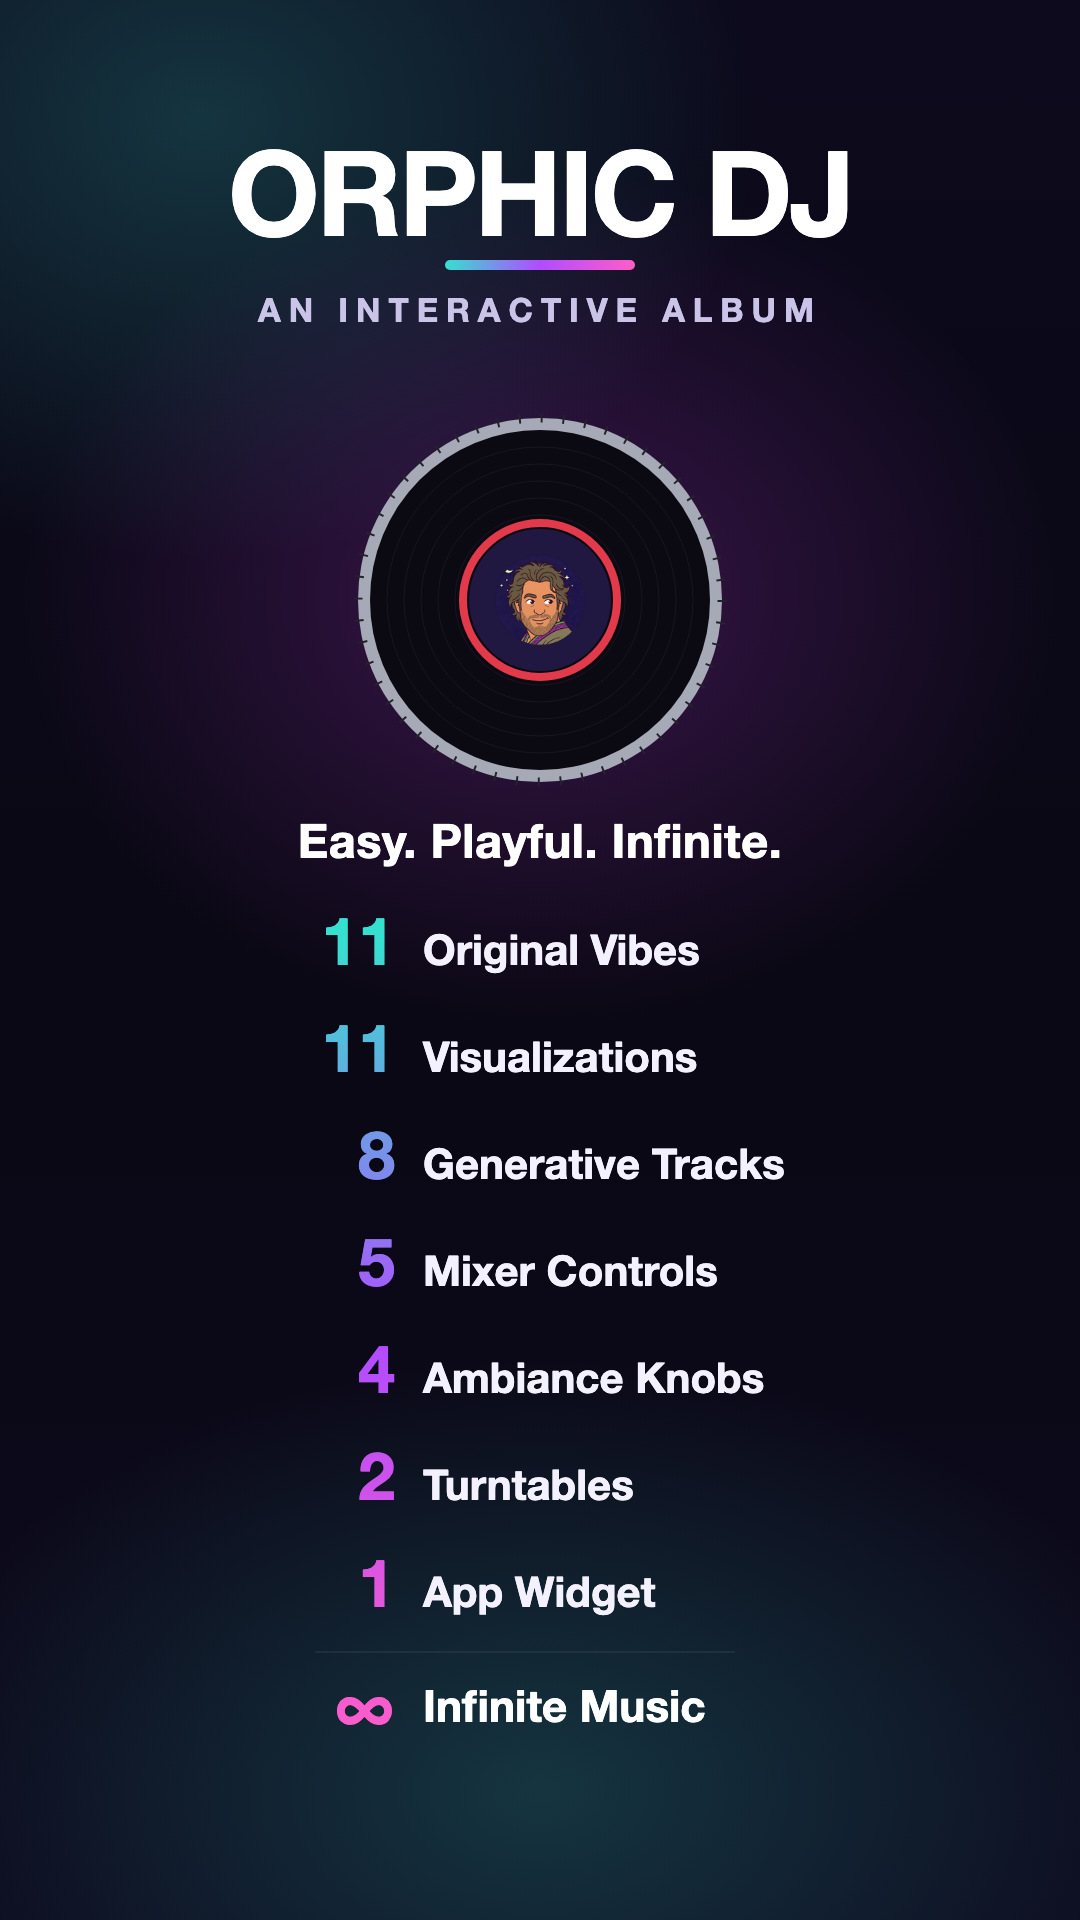
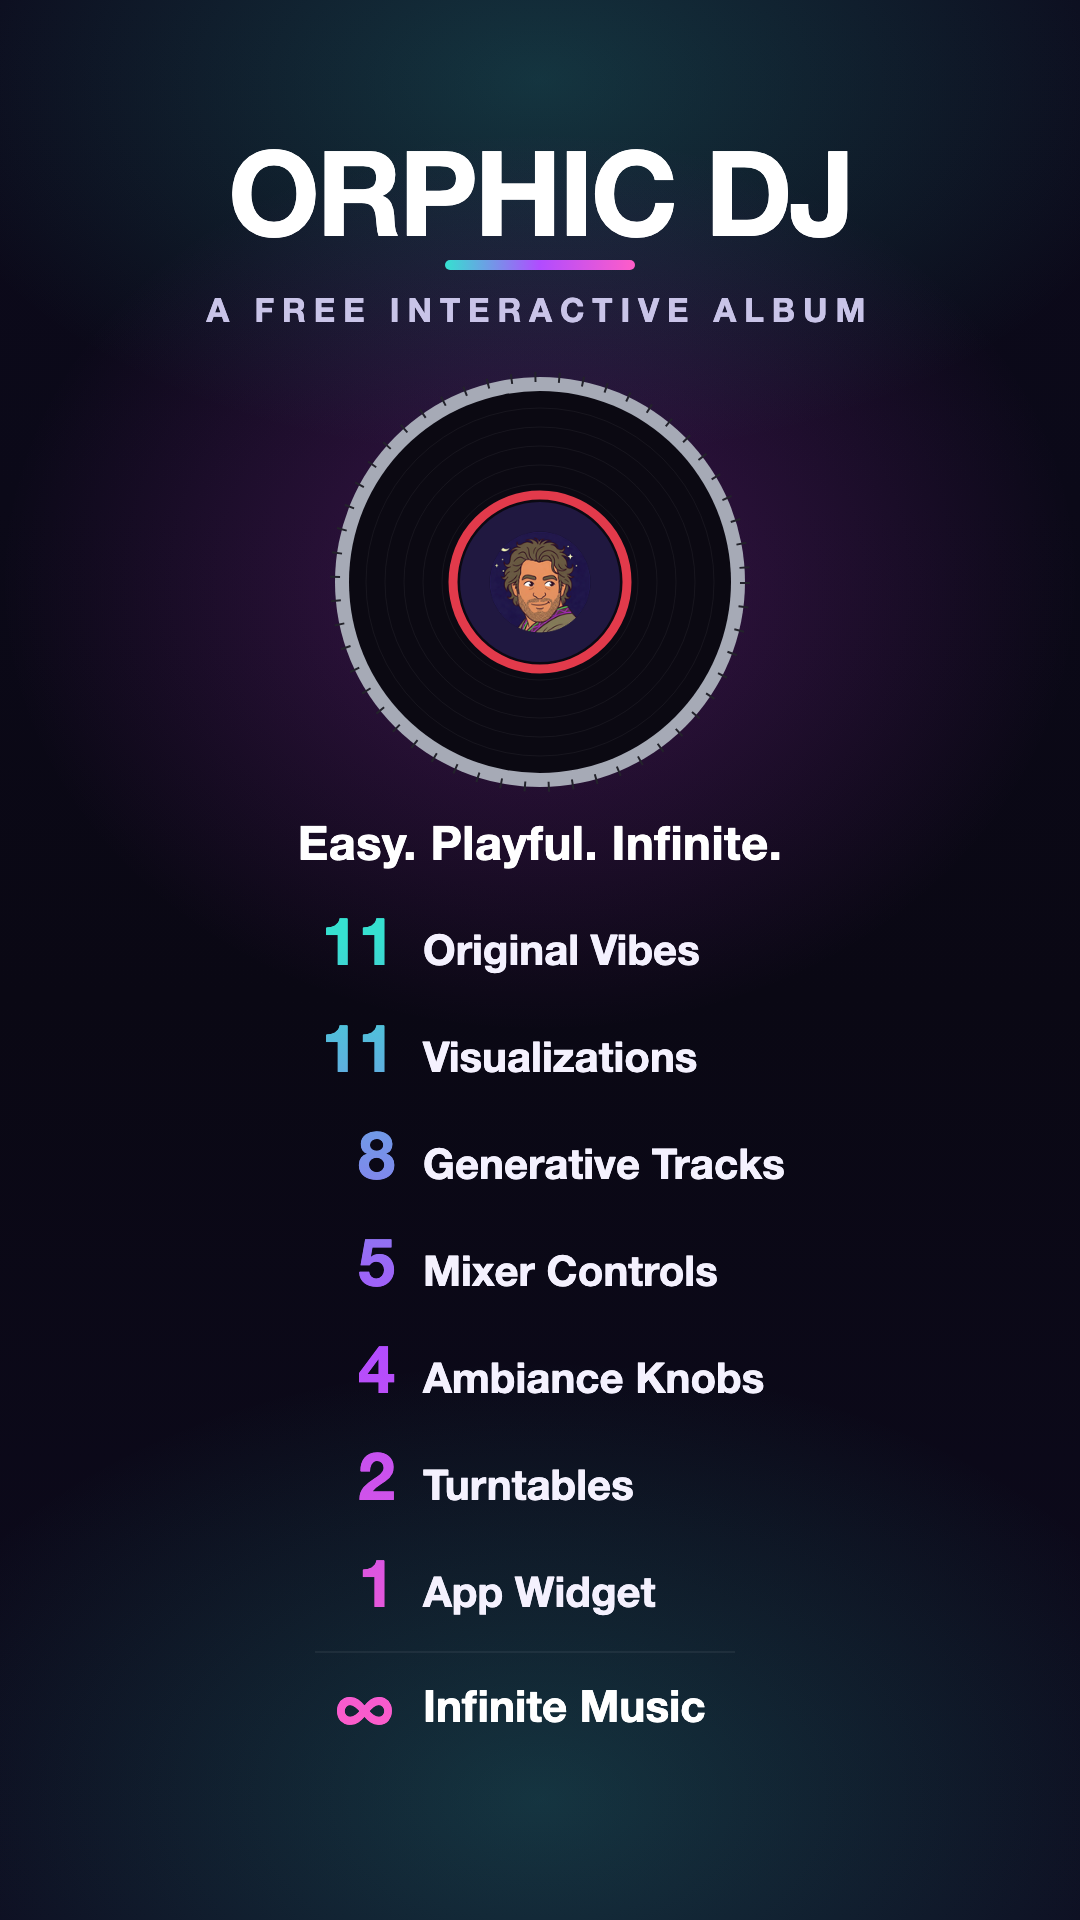
Add "Free" to djapp listing; enlarge + center the portrait hero turntable
- Hero: subtitle now "A FREE INTERACTIVE ALBUM"; short description leads with
  "Free". Enlarge the turntable and vertically center it in its zone, make the
  background glows symmetric so it reads as centered, keep the by-the-numbers
  list as an aligned two-column block.
- Make hero-card.html responsive so it's viewable in a small preview pane; at
  the 1080x1920 headless render window the output PNG is unchanged.

diff --git a/apps/djapp/play-store/assets/framed/hero-card.html b/apps/djapp/play-store/assets/framed/hero-card.html
@@ -3,8 +3,12 @@
 <head>
 <meta charset="utf-8" />
 <style>
-  html, body { margin: 0; padding: 0; width: 1080px; height: 1920px; overflow: hidden; background: #0A0814; }
-  svg { display: block; }
+  html, body { margin: 0; padding: 0; width: 100%; height: 100%; overflow: hidden; background: #0A0814; }
+  body { display: grid; place-items: center; }
+  /* The artwork is a fixed 1080x1920 (9:16) SVG. Scale it to fit the viewport so
+     it's viewable in a small preview pane. At the 1080x1920 headless render
+     window this resolves to exactly 1080x1920, so the output PNG is unchanged. */
+  svg { display: block; width: min(100vw, 56.25vh); height: auto; }
 </style>
 </head>
 <body>
@@ -20,9 +24,12 @@
       magick hero-portrait-raw.png -background '#0A0814' -alpha remove -alpha off \
         PNG24:01-hero-bynumbers-framed.png
     Edit the HOOK line and the COUNTS below, not the layout, for routine updates.
+    Layout: disc is vertically centered (cy=582) in the zone between the header and
+    the hook; numbers are a two-column list (right-aligned counts, left-aligned labels);
+    background glows are symmetric about x=540 so the disc reads as centered.
   -->
   <svg width="1080" height="1920" viewBox="0 0 1080 1920" xmlns="http://www.w3.org/2000/svg" role="img" aria-labelledby="t d">
-    <title id="t">Orphic DJ — an interactive album, by the numbers</title>
+    <title id="t">Orphic DJ, a free interactive album, by the numbers</title>
     <desc id="d">Orphic DJ wordmark over a turntable with Orpheus at center, the line "Easy. Playful. Infinite.", above a count of vibes, visualizations, tracks, mixer controls, knobs, turntables, the widget, and infinite music.</desc>
     <defs>
       <linearGradient id="bg" x1="0" y1="0" x2="0" y2="1">
@@ -48,41 +55,42 @@
         <stop offset="0" stop-color="#E040FB" stop-opacity="0.22"/>
         <stop offset="1" stop-color="#E040FB" stop-opacity="0"/>
       </radialGradient>
-      <clipPath id="emblemClip"><circle cx="540" cy="600" r="71"/></clipPath>
+      <clipPath id="emblemClip"><circle cx="540" cy="582" r="80"/></clipPath>
     </defs>
 
     <rect x="0" y="0" width="1080" height="1920" fill="url(#bg)"/>
-    <ellipse cx="200" cy="120" rx="560" ry="440" fill="url(#glowTeal)"/>
-    <ellipse cx="540" cy="600" rx="520" ry="430" fill="url(#glowMag)"/>
-    <ellipse cx="540" cy="1790" rx="660" ry="430" fill="url(#glowTeal)"/>
+    <!-- Symmetric glows about x=540 so the centered disc reads as centered -->
+    <ellipse cx="540" cy="80" rx="640" ry="380" fill="url(#glowTeal)"/>
+    <ellipse cx="540" cy="582" rx="540" ry="450" fill="url(#glowMag)"/>
+    <ellipse cx="540" cy="1800" rx="680" ry="440" fill="url(#glowTeal)"/>
 
     <!-- Header -->
     <g font-family="-apple-system, 'Helvetica Neue', Arial, sans-serif" text-anchor="middle">
       <text x="540" y="236" font-size="118" font-weight="800" letter-spacing="-3" fill="#FFFFFF">ORPHIC DJ</text>
       <rect x="445" y="260" width="190" height="10" rx="5" fill="url(#accentH)"/>
-      <text x="540" y="322" font-size="33" font-weight="600" letter-spacing="8" fill="#C9C4E8">AN INTERACTIVE ALBUM</text>
+      <text x="540" y="322" font-size="33" font-weight="600" letter-spacing="8" fill="#C9C4E8">A FREE INTERACTIVE ALBUM</text>
     </g>
 
-    <!-- Turntable centerpiece -->
+    <!-- Turntable centerpiece (vertically centered between header and hook) -->
     <g>
-      <circle cx="540" cy="600" r="182" fill="#A6AAB6"/>
-      <circle cx="540" cy="600" r="182" fill="none" stroke="#23232B" stroke-width="9" stroke-dasharray="2 20"/>
-      <circle cx="540" cy="600" r="170" fill="#0B0912"/>
-      <circle cx="540" cy="600" r="153" fill="none" stroke="#FFFFFF" stroke-opacity="0.05" stroke-width="1"/>
-      <circle cx="540" cy="600" r="136" fill="none" stroke="#FFFFFF" stroke-opacity="0.05" stroke-width="1"/>
-      <circle cx="540" cy="600" r="119" fill="none" stroke="#FFFFFF" stroke-opacity="0.05" stroke-width="1"/>
-      <circle cx="540" cy="600" r="102" fill="none" stroke="#FFFFFF" stroke-opacity="0.05" stroke-width="1"/>
-      <circle cx="540" cy="600" r="85" fill="none" stroke="#FFFFFF" stroke-opacity="0.05" stroke-width="1"/>
-      <circle cx="540" cy="600" r="71" fill="#201840"/>
-      <image href="../../../androidApp/src/main/res/mipmap-xxxhdpi/orpheus_emblem.png" x="469" y="529" width="142" height="142" clip-path="url(#emblemClip)" preserveAspectRatio="xMidYMid slice"/>
-      <circle cx="540" cy="600" r="77" fill="none" stroke="#E23A4B" stroke-width="8"/>
+      <circle cx="540" cy="582" r="205" fill="#A6AAB6"/>
+      <circle cx="540" cy="582" r="205" fill="none" stroke="#23232B" stroke-width="10" stroke-dasharray="2 22"/>
+      <circle cx="540" cy="582" r="191" fill="#0B0912"/>
+      <circle cx="540" cy="582" r="174" fill="none" stroke="#FFFFFF" stroke-opacity="0.05" stroke-width="1"/>
+      <circle cx="540" cy="582" r="155" fill="none" stroke="#FFFFFF" stroke-opacity="0.05" stroke-width="1"/>
+      <circle cx="540" cy="582" r="136" fill="none" stroke="#FFFFFF" stroke-opacity="0.05" stroke-width="1"/>
+      <circle cx="540" cy="582" r="117" fill="none" stroke="#FFFFFF" stroke-opacity="0.05" stroke-width="1"/>
+      <circle cx="540" cy="582" r="98" fill="none" stroke="#FFFFFF" stroke-opacity="0.05" stroke-width="1"/>
+      <circle cx="540" cy="582" r="80" fill="#201840"/>
+      <image href="../../../androidApp/src/main/res/mipmap-xxxhdpi/orpheus_emblem.png" x="460" y="502" width="160" height="160" clip-path="url(#emblemClip)" preserveAspectRatio="xMidYMid slice"/>
+      <circle cx="540" cy="582" r="87" fill="none" stroke="#E23A4B" stroke-width="9"/>
     </g>
 
     <!-- Hook -->
-    <text x="540" y="858" text-anchor="middle" font-family="-apple-system, 'Helvetica Neue', Arial, sans-serif"
+    <text x="540" y="860" text-anchor="middle" font-family="-apple-system, 'Helvetica Neue', Arial, sans-serif"
           font-size="47" font-weight="700" letter-spacing="0.5" fill="#FFFFFF">Easy. Playful. Infinite.</text>
 
-    <!-- By the numbers -->
+    <!-- By the numbers (two-column: right-aligned counts | left-aligned labels) -->
     <g font-family="-apple-system, 'Helvetica Neue', Arial, sans-serif">
       <g font-size="66" font-weight="800" text-anchor="end" fill="url(#accentV)">
         <text x="395" y="965">11</text>

diff --git a/apps/djapp/play-store/listing.md b/apps/djapp/play-store/listing.md
@@ -27,7 +27,7 @@ This is the line that appears under the app name in search results and on the
 detail page. It's the most read piece of copy in the listing — your one-line
 pitch.
 
-**Easy. Playful. Infinite. Generative music for focus, sleep & parties.**
+**Easy. Playful. Infinite. Free generative music for focus, sleep & parties.**
 
 ### Constraints
 
